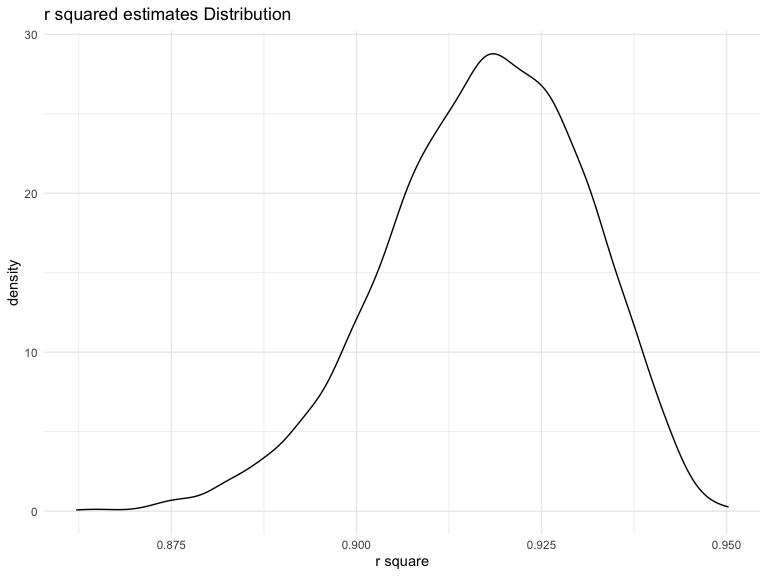
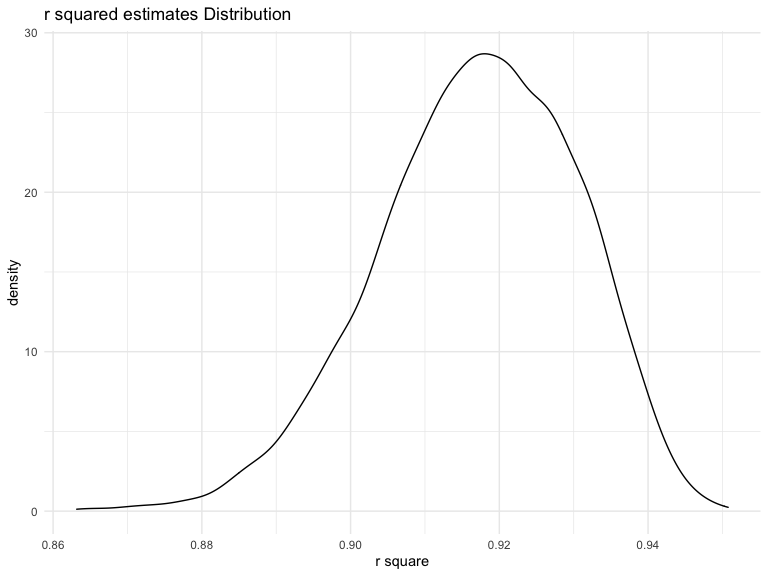
add some comments

diff --git a/p8105_hw6_lz2950.md b/p8105_hw6_lz2950.md
@@ -170,6 +170,20 @@ model_results |>
 
 ### Problem 2
 
+**The boostrap is helpful when you’d like to perform inference for a
+parameter / value / summary that doesn’t have an easy-to-write-down
+distribution in the usual repeated sampling framework. We’ll focus on a
+simple linear regression with `tmax` as the response with `tmin` and
+`prcp` as the predictors, and are interested in the distribution of two
+quantities estimated from these data:**
+
+- $\hat{r}^2$
+
+- $log(\hat{\beta_1} * \hat{\beta_2})$
+
+\*\*Use 5000 bootstrap samples and, for each bootstrap sample, produce
+estimates of these two quantities. Plot the distribution.
+
 First, download the data.
 
 ``` r
@@ -225,7 +239,8 @@ var |>
 ```
 
 <img src="p8105_hw6_lz2950_files/figure-gfm/unnamed-chunk-3-1.png" width="90%" />
-This plot of r square is left skewed with the mode around 0.92.
+This plot of r square is left skewed with the mode around 0.92.But this
+distribution is approximately normal.
 
 ``` r
 var |>
@@ -236,6 +251,8 @@ var |>
 ```
 
 <img src="p8105_hw6_lz2950_files/figure-gfm/unnamed-chunk-4-1.png" width="90%" />
+This plot of log_beta1\*log_beta2 is also left skewed with some
+outliers.
 
 ``` r
 tibble(
@@ -249,7 +266,7 @@ tibble(
 
 | r_square_low | r_square_high | log_beta_low | log_beta_high |
 |-------------:|--------------:|-------------:|--------------:|
-|    0.8881727 |     0.9404604 |    -8.953292 |     -4.530567 |
+|      0.88876 |     0.9397018 |    -8.822717 |     -4.545832 |
 
 ### Problem 3
 
@@ -315,7 +332,7 @@ The resulting data set has 4342 observations and 20 variables. There is
 no NA values in this data set.
 
 Then I fitted the data to a model with all the variables included as
-predictors.
+predictors because I want to see the overall performance first.
 
 ``` r
 birthwt_model =
@@ -330,7 +347,8 @@ birthwt |>
 ```
 
 <img src="p8105_hw6_lz2950_files/figure-gfm/unnamed-chunk-7-1.png" width="90%" />
-From the plot, it seems no relation between residuals and fitted values.
+From the plot, it seems no strong relation between residuals and fitted
+values.
 
 Compare the model to two others:
 
